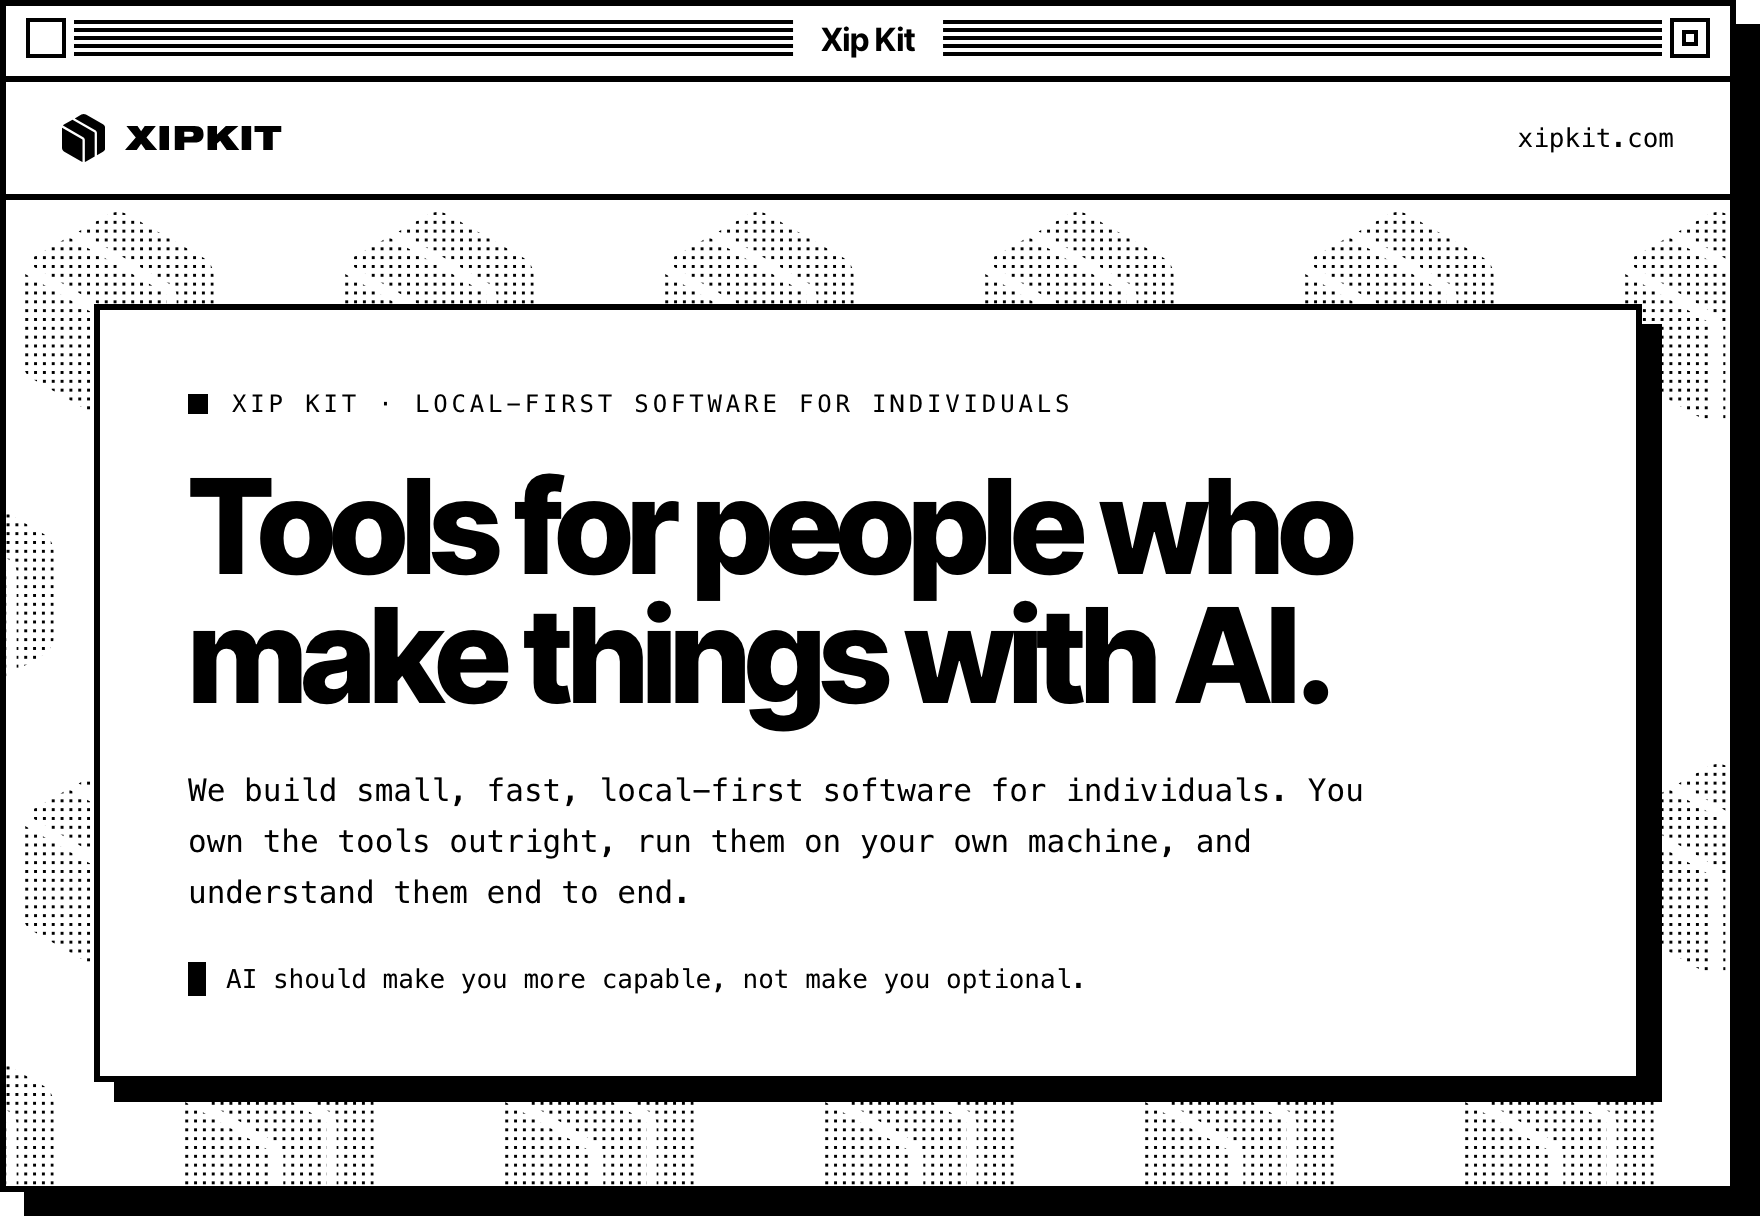
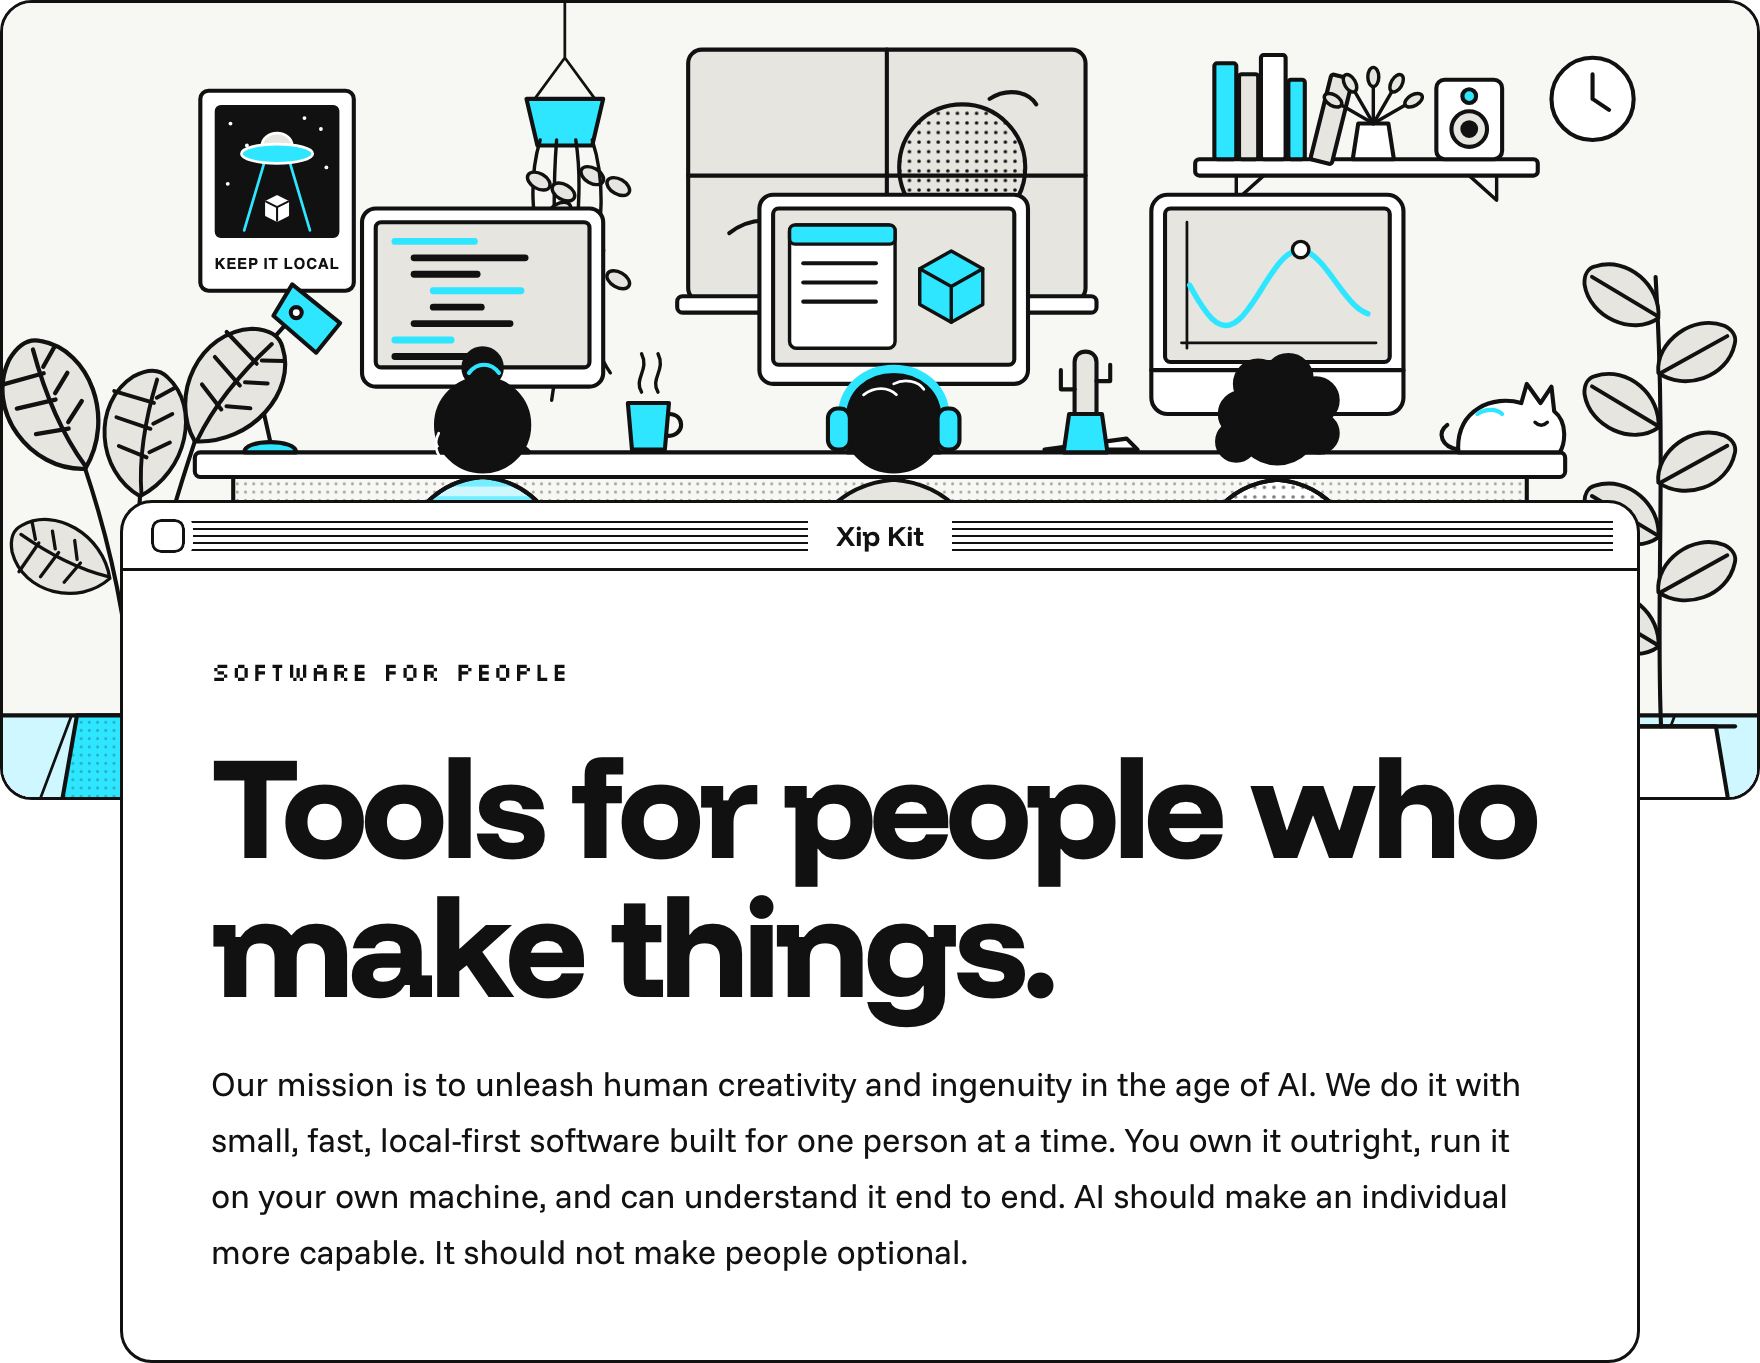
Render the new profile art and drop Rip from the README

diff --git a/profile/README.md b/profile/README.md
@@ -1,18 +1,17 @@
-<a href="https://xipkit.com"><picture><source media="(prefers-color-scheme: dark)" srcset="assets/hero-dark.png"><img alt="Xip Kit: Tools for people who make things with AI. We build small, fast, local-first software for individuals." src="assets/hero-light.png" width="100%"></picture></a>
+<a href="https://xipkit.com"><picture><source media="(prefers-color-scheme: dark)" srcset="assets/hero-dark.png"><img alt="Xip Kit, software for people: Tools for people who make things. Our mission is to unleash human creativity and ingenuity in the age of AI with small, fast, local-first software built for one person at a time." src="assets/hero-light.png" width="100%"></picture></a>
 
-<a href="https://xipkit.com/#notify"><picture><source media="(prefers-color-scheme: dark)" srcset="assets/xip-dark.png"><img alt="Xip, coming soon at xip.dev: HyperCard for the AI era. Describe a workflow and Xip turns it into a small app that runs on your machine." src="assets/xip-light.png" width="49.5%"></picture></a><a href="https://ripeditor.com"><picture><source media="(prefers-color-scheme: dark)" srcset="assets/rip-dark.png"><img alt="Rip, for macOS and Linux at ripeditor.com: the editor for reviewing code AI writes. Opens a 200k-line file in 41 ms and never phones home." src="assets/rip-light.png" width="49.5%"></picture></a>
+<a href="https://xipkit.com/#notes"><picture><source media="(prefers-color-scheme: dark)" srcset="assets/xip-dark.png"><img alt="Xip, coming soon for macOS, Linux and Windows: HyperCard for the AI era. Describe a workflow in plain language and get a kit, a small, self-contained automation that runs on your machine, on your data, with permissions you can read." src="assets/xip-light.png" width="100%"></picture></a>
 
-<a href="https://github.com/xipkit/vibescript"><picture><source media="(prefers-color-scheme: dark)" srcset="assets/oss-dark.png"><img alt="Vibescript, open source under MIT: a small, Ruby-like workflow language that people can read and AI can write." src="assets/oss-light.png" width="100%"></picture></a>
+<a href="https://github.com/xipkit/vibescript"><picture><source media="(prefers-color-scheme: dark)" srcset="assets/oss-dark.png"><img alt="vibescript, the language powering Xip, MIT licensed: a Ruby-like language that is easy to read and easy for AI to write. Embeddable and sandboxed, statically typed with local inference, with a REPL and LSP." src="assets/oss-light.png" width="100%"></picture></a>
 
-<picture><source media="(prefers-color-scheme: dark)" srcset="assets/believe-dark.png"><img alt="What we believe: individuals first, local first, AI is a collaborator, your data and attention are not for sale, and small, fast, finished." src="assets/believe-light.png" width="100%"></picture>
+<picture><source media="(prefers-color-scheme: dark)" srcset="assets/believe-dark.png"><img alt="What we believe: people want to make things. AI should belong to the person using it, so we build tools that are small, fast, and personal. The future should have more makers, not fewer. Signed Mauricio Gomes, founder." src="assets/believe-light.png" width="100%"></picture>
 
 <p align="center">
-  <a href="https://xipkit.com/#notify"><b>Hear from us when something ships →</b></a>
+  <a href="https://xipkit.com/#notes"><b>Get a note when something ships →</b></a>
 </p>
 
 <p align="center">
   <a href="https://xipkit.com">xipkit.com</a> ·
-  <a href="https://ripeditor.com">ripeditor.com</a> ·
   <a href="https://vibescript-lang.org">vibescript-lang.org</a> ·
   <a href="https://x.com/xipkit">@xipkit</a> ·
   <a href="https://youtube.com/@xipkit">YouTube</a> ·
